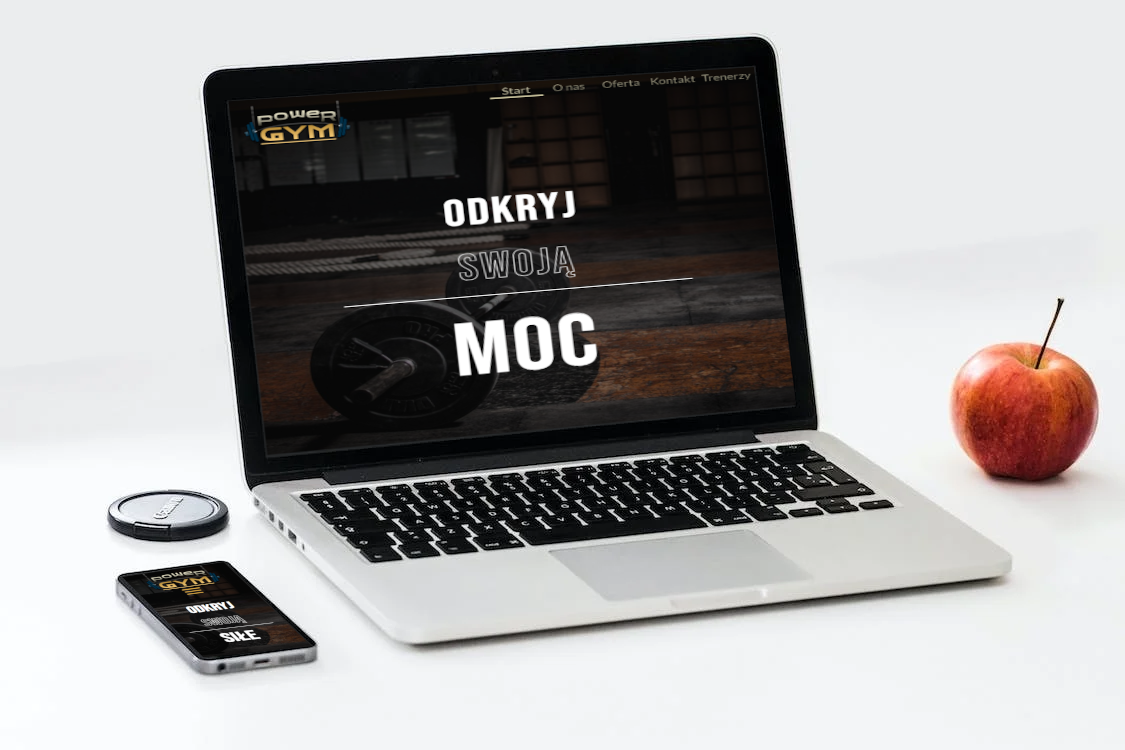
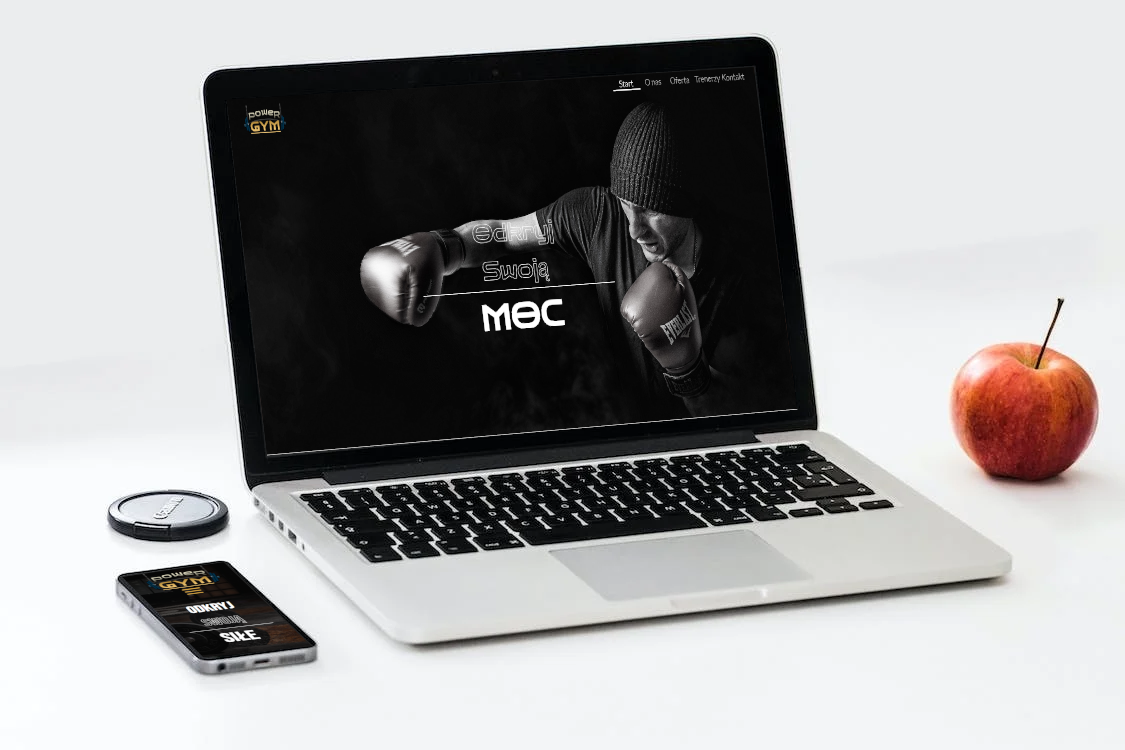
amendments

diff --git a/src/components/Start/Start.scss b/src/components/Start/Start.scss
@@ -73,8 +73,6 @@
           background-position: center right;
           background-size: 100% 100%;
           background-repeat: no-repeat;
-          transform-origin: right;
-          animation: scale-up 1s 1s 1 forwards;
           z-index: -1;
         }
       }
@@ -84,17 +82,13 @@
   &__portrait {
     height: 400px;
     margin-top: -20px;
-    background-image: url("../../utilities/images/me-animated.png");
+    background-image: url("../../utilities/images/first.png");
     background-size: 100% 100%;
     background-position: center;
     background-repeat: no-repeat;
-    transform: scaleX(0) rotate(90deg);
-    animation: fly 1s 1 forwards;
-    transition: 1s;
-
-    &:hover{
-      background-image: url("../../utilities/images/first.png");
-    }
+    transform: scale(0);
+    transition: background 1.5s;
+    animation: scale-up 1s 1 forwards;
   }
 
   &__intro {
@@ -109,26 +103,27 @@
         text-align: right;
       }
       div:nth-child(2) {
-        position: relative;
         font-size: 4rem;
         padding-bottom: 1em;
         color: #fff;
         white-space: nowrap;
         text-shadow: -1px -2px 2px #333;
-        .black-line {
-          position: absolute;
-          left: 10%;
-          right: 90%;
-          top: 30%;
-          bottom: -10%;
-          height: 80%;
-          margin-bottom: 5em;
-          background-image: url("../../utilities/images/bg-profession.png");
-          background-position: top left;
-          background-size: cover;
-          animation: draw 1s 2s 1 forwards;
-          z-index: -1;
-          height: 150px;
+        span {
+          position: relative;
+          .black-line {
+            position: absolute;
+            left: 0;
+            right: 100%;
+            top: 0;
+            bottom: -10%;
+            height: 100px;
+            margin-bottom: 5em;
+            background-image: url("../../utilities/images/bg-profession.png");
+            background-position: top left;
+            background-size: cover;
+            animation: draw 1s 2s 1 forwards;
+            z-index: -1;
+          }
         }
       }
     }
@@ -142,6 +137,7 @@
 @media (min-width: 350px) {
   .start {
     min-height: 100vh;
+    height: 100vh;
   }
 }
 @media (min-width: 768px) {
@@ -176,7 +172,7 @@
           }
           .black-line {
             left: 50%;
-            width: 200px;
+            width: 220px;
           }
         }
       }
@@ -199,13 +195,9 @@
         div:nth-child(2) {
           span {
             font-size: 7.5rem;
-          }
-          .black-line {
-            top: 20%;
-            left: 35%;
-            right: 70%;
-            height: 250px;
-            transform: scale(0.75);
+            .black-line {
+              height: 200px;
+            }
           }
         }
       }
@@ -250,7 +242,7 @@
     &__intro {
       h1 {
         margin-top: -3em;
-        font-size: 5.5rem;
+        font-size: 5rem;
         div {
           span {
             font-size: 6.5rem;
@@ -259,13 +251,6 @@
         div:nth-child(2) {
           span {
             font-size: 8.5rem;
-          }
-          .black-line {
-            top: -75%;
-            left: -5%;
-            right: 105%;
-            transform: scale(0.6);
-            height: 270px;
           }
         }
       }
@@ -280,11 +265,17 @@
         div:nth-child(2) {
           padding-left: 5em;
           text-align: center;
-          .black-line {
-            transform: scale(0.6);
-            height: 370px;
-          }
         }
+      }
+    }
+  }
+}
+
+@media (min-width: 1800px) {
+  .start {
+    &__top {
+      .email {
+        margin-right: 30%;
       }
     }
   }

diff --git a/src/assets/EnglishLanguageSet.tsx b/src/assets/EnglishLanguageSet.tsx
@@ -8,13 +8,13 @@ export const navigationEN: INavigationLink[] = [
 export const startEN: IContext = {
   text1: "Hello, my name is",
   text2: "Kamil",
-  text3: "I am beginner",
+  text3: "I am a beginner",
   text4: "front end developer",
 };
 export const aboutmeEN: IContext = {
   text1: "about me",
   text2:
-    "I am a fourth year student in the field of computer science specializing in business application design. The curriculum of my studies mainly focused on backend programming. After the sixth semester session ended, I decided that I would like to learn how to create an interesting frontend. I liked it so much that at this point it is the direction in which I would like to lead my career.",
+    "I am a fourth year student in the field of computer science specializing in business application design. The curriculum of my studies mainly focused on backend programming. It gave me a basic understanding of database development and programming in C# and PHP. After the sixth semester session ended, I decided that I would like to learn how to create an interesting frontend. I liked it so much that at this point it is the direction in which I would like to lead my career.",
 };
 export const qualificationsEN: IContext = {
   text1: "qualifications",

diff --git a/src/assets/PolishLanguageSet.tsx b/src/assets/PolishLanguageSet.tsx
@@ -14,7 +14,7 @@ export const startPL: IContext = {
 export const aboutmePL: IContext = {
   text1: "o mnie",
   text2:
-    "Jestem studentem czwartego roku na kierunku informatyka specjalizacja projektowanie aplikacji biznesowych. Program moich studiów skupiał się głównie na programowaniu backendu. Po zakończonej sesji szóstego semestru uznałem że chciałbym nauczyć się tworzyć ciekawy frontend. Spodobało mi się tak bardzo, że w tym momencie jest to kierunek w którym chciałbym poprowadzić moją karierę.",
+    "Jestem studentem czwartego roku na kierunku informatyka specjalizacja projektowanie aplikacji biznesowych. Program moich studiów skupiał się głównie na programowaniu backendu. Dzięki temu wiem trochę na temat baz danych oraz podstaw programowania w takich językach jak C# czy PHP. Po zakończonej sesji szóstego semestru uznałem że chciałbym nauczyć się tworzyć ciekawy frontend. Spodobało mi się tak bardzo, że w tym momencie jest to kierunek w którym chciałbym poprowadzić moją karierę.",
 };
 export const qualificationsPL: IContext = {
   text1: "kwalfikacje",

diff --git a/src/index.css b/src/index.css
@@ -112,16 +112,18 @@ p {
 }
 
 .scale-up {
-  animation: scale 3s 1 forwards;
+  animation: scale-up 3s 1 forwards;
 }
-@keyframes scale {
-  to{
+
+@keyframes scale-up {
+  to {
     transform: scale(1);
   }
 }
+
 @keyframes draw {
-  to{
-    right: -20%;
+  to {
+    right: -26%;
   }
 }
 
@@ -129,33 +131,20 @@ p {
   0% {
     opacity: 1;
   }
+
   49% {
     opacity: 1;
   }
+
   50% {
     opacity: 0;
   }
+
   99% {
     opacity: 0;
   }
+
   100% {
     opacity: 1;
-  }
-}
-@keyframes fly {
-  0% {
-    transform: scale(.15) translate(100%, 100%);
-  }
-  25% {
-    transform: scale(.25) translate(50%, -100%);
-  }
-  50% {
-    transform: scale(.15) translate(-100%, 50%);
-  }
-  75% {
-    transform: scale(.25) translate(100%, -100%);
-  }
-  100% {
-    transform: scale(1);
   }
 }

diff --git a/src/components/Projects/subcomponents/Card.tsx b/src/components/Projects/subcomponents/Card.tsx
@@ -1,13 +1,14 @@
 import React from "react";
 
 interface ICardProps {
+  link: string;
   description: string;
 }
 
-const Card: React.FunctionComponent<ICardProps> = ({ description }) => {
+const Card: React.FunctionComponent<ICardProps> = ({ link, description }) => {
   return (
-    <a href="https://kamilszostek.github.io/secret-power/" className="projects__cards__card">
-        <p>{description}</p>
+    <a href={link} className="projects__cards__card">
+      <p>{description}</p>
     </a>
   );
 };

diff --git a/src/components/Projects/Projects.tsx b/src/components/Projects/Projects.tsx
@@ -13,8 +13,11 @@ const Projects: React.FunctionComponent = (props) => {
     <section id="projects" className="projects">
       <h3>{title}</h3>
       <div className="projects__cards">
-        <Card description={projectDescription1} />
         <Card
+          link='https://your-power-gym.netlify.app'
+          description={projectDescription1} />
+        <Card
+          link='https://fcss-shop.netlify.app'
           description={projectDescription2}
         />
       </div>

diff --git a/src/components/Start/subcomponents/TextLine.tsx b/src/components/Start/subcomponents/TextLine.tsx
@@ -49,8 +49,11 @@ const TextLine = forwardRef<TextLineRef, ITextLineProps>(
     }, [text]);
     return (
       <div>
-        <span>{text}</span>
-        <span className="black-line" ref={spanRef} />
+        <span>
+          {text}
+          <span className="black-line" ref={spanRef} />
+        </span>
+
         <span className="caret" ref={caretRef}>
           |
         </span>
